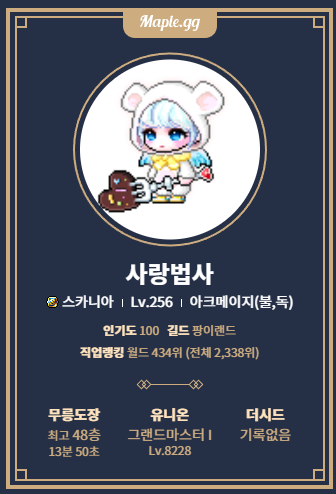
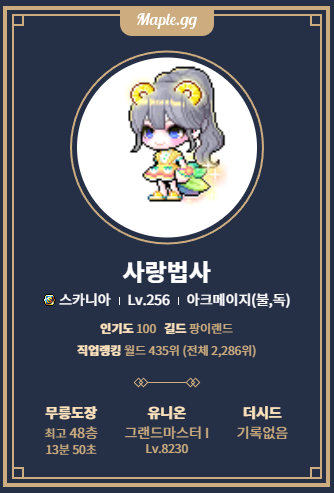
제작자 수정

Changed region(s): [[0.0, 0.0, 1.0, 1.0], [0.7186, 0.8215, 0.8683, 0.9128], [0.3892, 0.7606, 0.5988, 0.7911]]

diff --git a/src/page/Home.js b/src/page/Home.js
@@ -1,6 +1,7 @@
 import React from "react";
 import character from "../img/character.png";
 import character2 from "../img/character2.png";
+import character3 from "../img/character3.png";
 
 const Home = () => {
   return (
@@ -25,6 +26,17 @@ const Home = () => {
           onClick={() =>
             window.open(
               "https://maple.gg/u/%EC%82%AC%EB%9E%91%EB%B0%94%ED%8D%BC",
+              "_blank"
+            )
+          }
+        />
+        <img
+          className="Image"
+          alt="character"
+          src={character3}
+          onClick={() =>
+            window.open(
+              "https://maple.gg/u/%EC%82%AC%EB%9E%91%EC%B2%B4%EB%9D%BC",
               "_blank"
             )
           }
